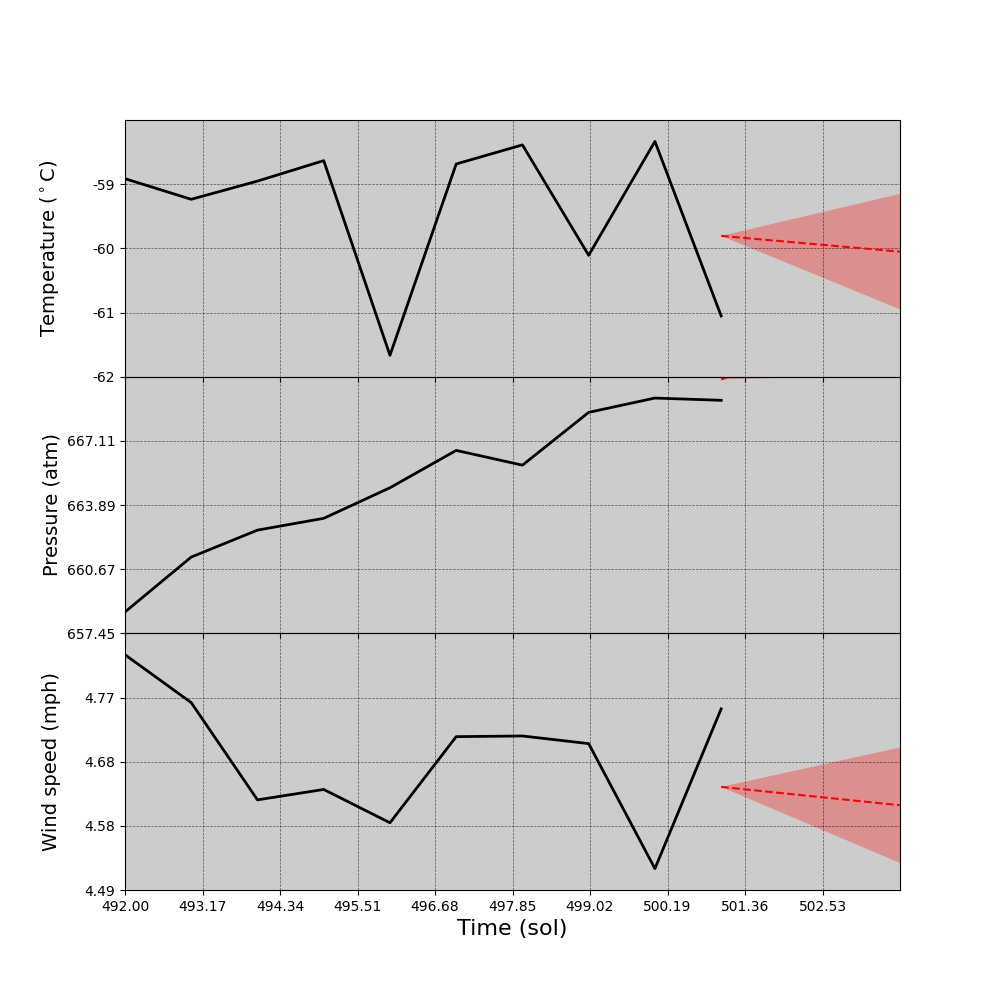
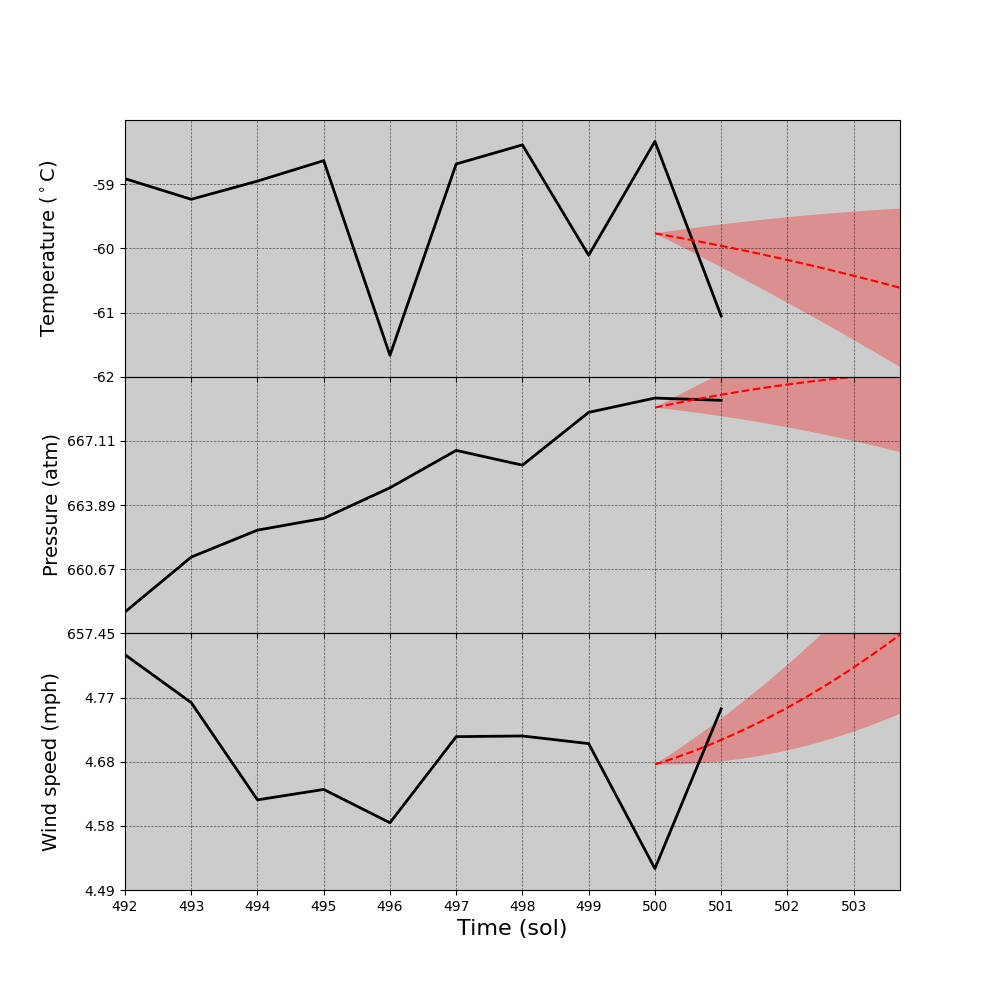
Updated font and minor formatting

diff --git a/make_plots.py b/make_plots.py
@@ -4,6 +4,7 @@ import pandas as pd
 
 import matplotlib.pyplot as plt
 import matplotlib as mpl
+from matplotlib import rcParams
 from matplotlib import cm
 from matplotlib.ticker import PercentFormatter
 from matplotlib.patches import Patch
@@ -31,6 +32,8 @@ def fit(X,Y,x_fit):
 def stack_plot(data, forecast=False, depth=.3, save=False):
     min_time = min(data['time'])
     max_time = max(data['time'])
+    rcParams['font.family'] = ['Arial','sans-serif']
+    
 
     # If we are attempting a forecast, extend the max time beyond the provided data
     if forecast:
@@ -63,7 +66,8 @@ def stack_plot(data, forecast=False, depth=.3, save=False):
     ax[2].yaxis.set_major_formatter(mpl.ticker.StrMethodFormatter('{x:,.2f}'))
 
     # Setting time ticks and labelling x-axis
-    x_ticks = [linearmap([0, 10],[min_time,max_time],i) for i in range(0,10)]
+    #x_ticks = [linearmap([0, 10],[min_time,max_time],i) for i in range(0,10)]
+    x_ticks = np.arange(min_time, max_time, 1)
     ax[2].set_xticks(x_ticks)
     ax[2].set_xlabel("Time (sol)", fontsize=16)
 
@@ -149,6 +153,7 @@ def stack_plot(data, forecast=False, depth=.3, save=False):
 
 # Make wind rose plot
 def windrose(data, num_days=None, save=False):
+    rcParams['font.family'] = ['Arial','sans-serif']
     if num_days is not None:
         today = max(data['sol'])
         data = data[data['sol'] > today - num_days]
